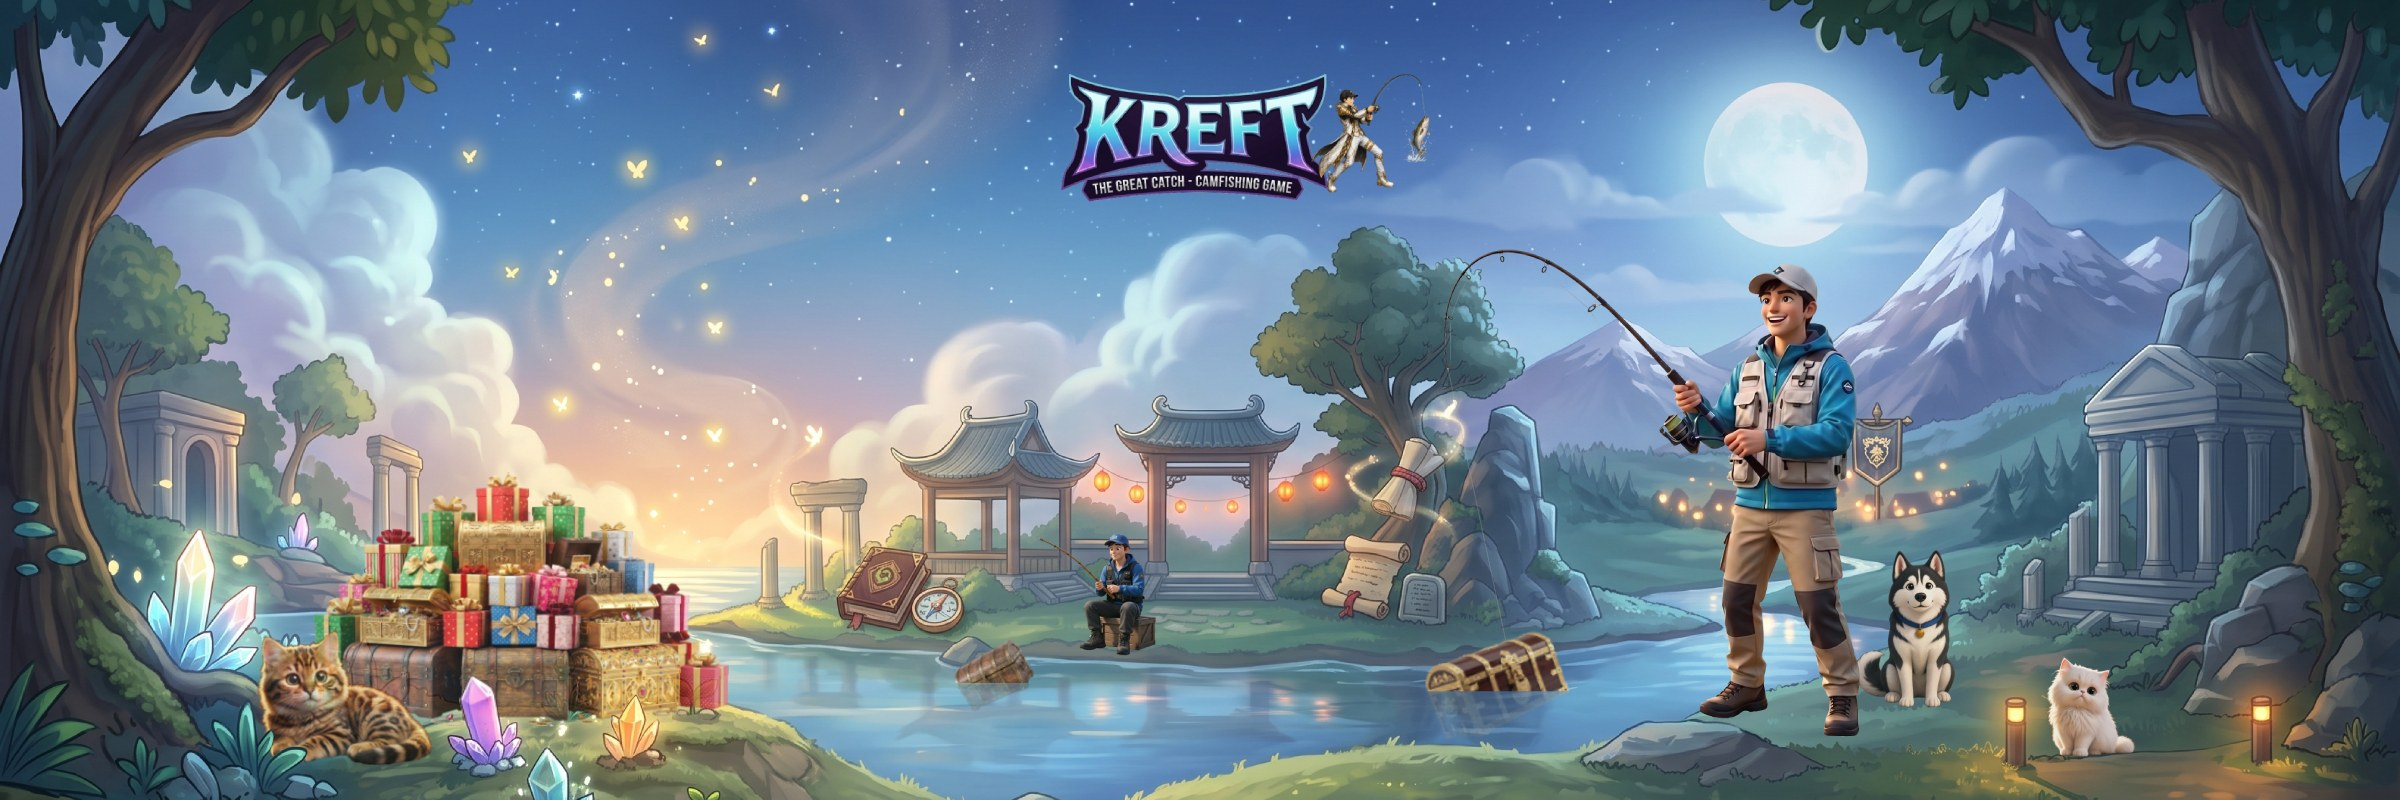
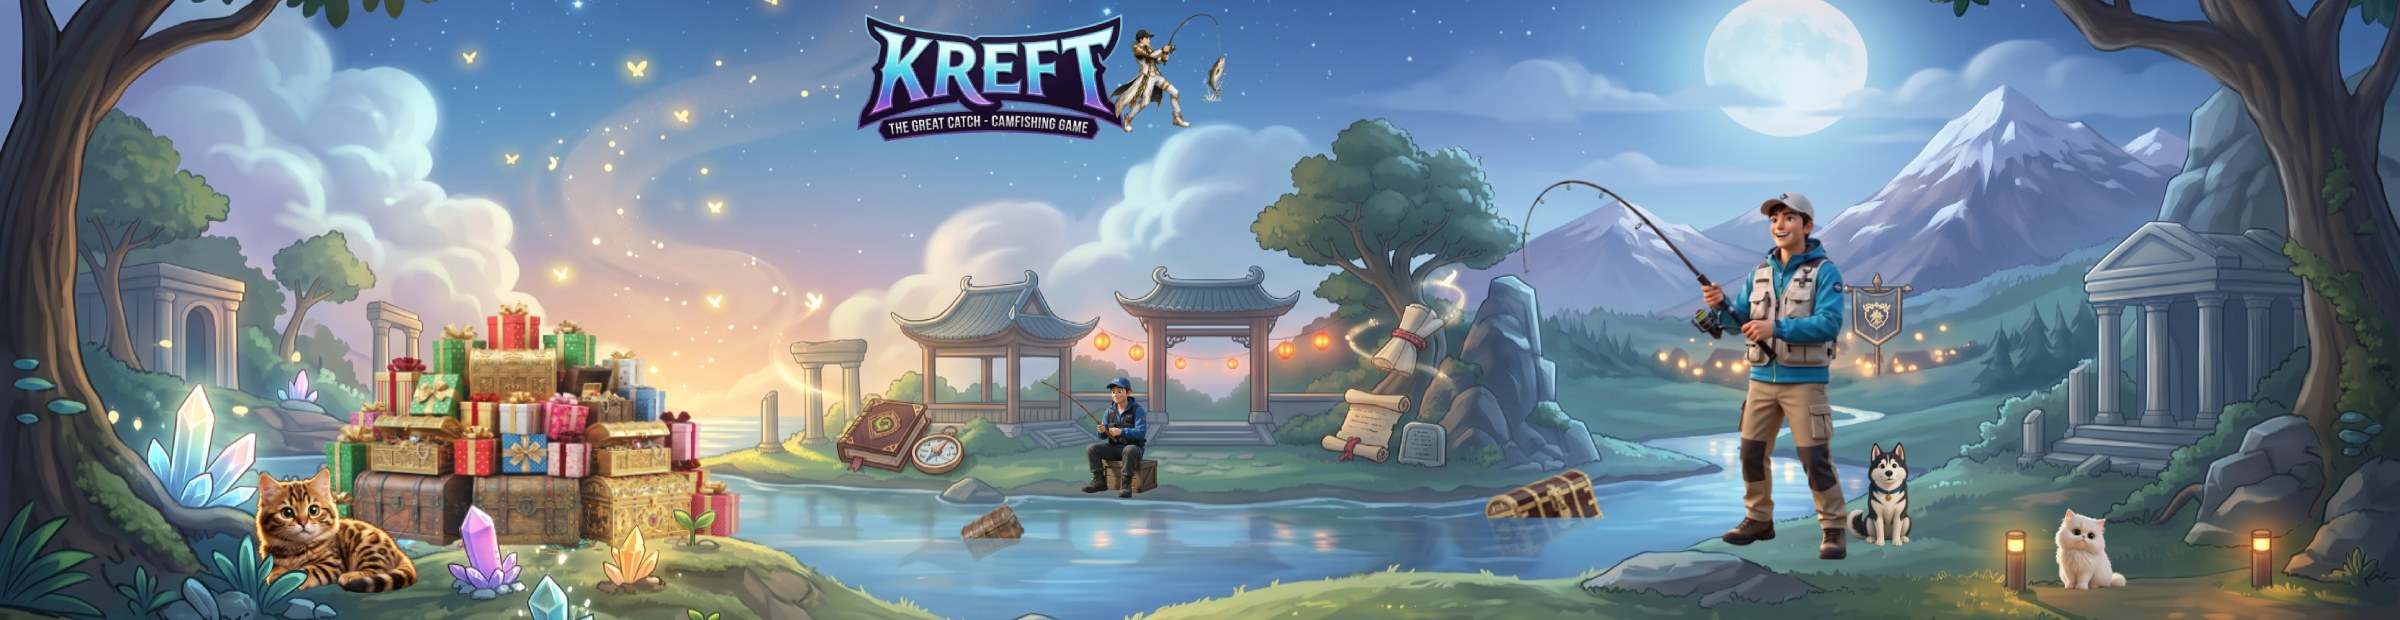
히어로 비율 2400x620(3.9:1)로 조정 + 이벤트 슬라이드 새 이미지 - 화면 절반 이하 확보

diff --git a/hub/index.html b/hub/index.html
@@ -74,7 +74,7 @@
   .hamb{display:none;background:none;border:none;font-size:26px;color:#fff;cursor:pointer}
 
   /* ===== HERO (full-screen splash) ===== */
-  .hero{position:relative;width:100%;aspect-ratio:2400/800;max-height:52vh;overflow:hidden;background:#0a1f28}
+  .hero{position:relative;width:100%;aspect-ratio:2400/620;overflow:hidden;background:#0a1f28}
   .floatlogo{position:absolute;top:22px;left:26px;z-index:20;display:block;transition:opacity .3s ease}
   .floatlogo img{height:46px;width:auto;display:block;filter:drop-shadow(0 3px 10px rgba(0,0,0,.55))}
   .hslide{position:absolute;inset:0;opacity:0;transition:opacity .8s ease}
